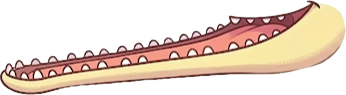
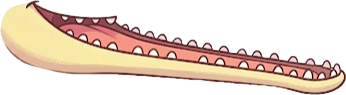
이미지 수정중

diff --git a/worklion/engine.js b/worklion/engine.js
@@ -749,55 +749,39 @@ class Lion {
     return { x: wx + dx * 0.5, y: wy + dy * 0.5 };
   }
 
-  /** 팔을 따라 악어 턱 이미지 그리기 */
-  _drawJaw(ctx, arm, isUpper, CW, CH) {
+  /** 어깨 중심에서 좌/우 방향으로 나오는 악어 턱 */
+  _drawJaw(ctx, isUpper, CW, CH) {
     const img = isUpper ? Assets.croc.upper : Assets.croc.lower;
     if (!img) return;
-
-    // 시작점: 상악은 반대쪽 어깨에서 시작 (입이 팔 끝에서 나오는 느낌)
     const p = this._getRenderPose();
-    let sx, sy;
-    if (isUpper) {
-      // 상악: 반대쪽 어깨에서 시작
-      const otherShoulder = (arm.shoulder === p.ls) ? p.rs : p.ls;
-      sx = this._px(otherShoulder, CW, CH);
-      sy = this._py(otherShoulder, CW, CH);
-    } else {
-      sx = this._px(arm.shoulder, CW, CH);
-      sy = this._py(arm.shoulder, CW, CH);
-    }
-    const end = this._getArmEnd(arm, CW, CH);
-    const wx = end.x, wy = end.y;
+    if (!p) return;
 
-    // 시작점→손가락끝 방향 각도
-    const angle = Math.atan2(wy - sy, wx - sx);
+    // 어깨 중심점
+    const cx = (this._px(p.ls, CW, CH) + this._px(p.rs, CW, CH)) / 2;
+    const cy = (this._py(p.ls, CW, CH) + this._py(p.rs, CW, CH)) / 2;
 
-    // 팔 골격 길이 (어깨→팔꿈치→손목→손끝) 기반으로 일정한 크기 유지
-    const shX = this._px(arm.shoulder, CW, CH), shY = this._py(arm.shoulder, CW, CH);
-    const elX = this._px(arm.elbow, CW, CH), elY = this._py(arm.elbow, CW, CH);
-    const wrX = this._px(arm.wrist, CW, CH), wrY = this._py(arm.wrist, CW, CH);
-    const boneLen = Math.sqrt((elX-shX)**2 + (elY-shY)**2)
-                  + Math.sqrt((wrX-elX)**2 + (wrY-elY)**2) * 1.5; // 손가락끝까지 포함
+    const facingRight = this._getFacingRight();
 
-    // 이미지 비율 유지하며 팔 골격 길이에 맞춤
+    // 어깨 너비 기반 크기
+    const shoulderW = Math.abs(this._px(p.ls, CW, CH) - this._px(p.rs, CW, CH));
+    const jawW = Math.max(100, shoulderW * 2.2);
     const aspect = img.naturalWidth / img.naturalHeight;
-    const jawW = boneLen * 1.05;
     const jawH = jawW / aspect;
 
+    // 입 열림 각도 (최대 26도): 상악은 위로, 하악은 아래로
+    const maxAngle = Math.PI / 7;
+    const openAngle = this.jawOpen * maxAngle;
+    const angle = isUpper ? -openAngle : openAngle;
+
+    // 닫혔을 때 상악 하단·하악 상단이 어깨 중심선에서 맞닿음
+    const offsetY = isUpper ? -jawH : 0;
+
     ctx.save();
-    ctx.translate(sx, sy);
+    ctx.translate(cx, cy);
+    if (facingRight) ctx.scale(-1, 1); // 손목이 왼쪽 → scale로 악어를 왼쪽으로 뻗음
     ctx.rotate(angle);
-
-    // 팔이 왼쪽을 향할 때(|angle| > 90°) 이미지가 뒤집혀 보이므로 세로 flip
-    const needsFlip = Math.abs(angle) > Math.PI / 2;
-    if (needsFlip) {
-      ctx.scale(1, -1);
-    }
-
-    // 이미지 좌우 반전: drawImage에 음수 width로 미러링 (눈→어깨쪽, 입끝→손가락쪽)
-    const offsetY = isUpper ? -jawH * 0.7 : -jawH * 0.3;
-    ctx.drawImage(img, jawW * 0.95, offsetY, -jawW, jawH);
-
+    // 얼굴(눈) = x=0 (어깨 중심), 입/주둥이 끝 = x=jawW (바깥 방향)
+    ctx.drawImage(img, 0, offsetY, jawW, jawH);
     ctx.restore();
   }
 
@@ -842,23 +826,15 @@ class Lion {
   }
 
   drawLowerJaw(ctx) {
-    const arms = this._getJawArms();
-    if (!arms) {
-      this._drawFallbackJaw(ctx, false);
-      return;
-    }
     const rp = this._getRenderPose();
-    this._drawJaw(ctx, arms.lower, false, rp.CW, rp.CH);
+    if (!rp) { this._drawFallbackJaw(ctx, false); return; }
+    this._drawJaw(ctx, false, rp.CW, rp.CH);
   }
 
   drawUpperJaw(ctx) {
-    const arms = this._getJawArms();
-    if (!arms) {
-      this._drawFallbackJaw(ctx, true);
-      return;
-    }
     const rp = this._getRenderPose();
-    this._drawJaw(ctx, arms.upper, true, rp.CW, rp.CH);
+    if (!rp) { this._drawFallbackJaw(ctx, true); return; }
+    this._drawJaw(ctx, true, rp.CW, rp.CH);
   }
 
   /** 몸통 (z-index 최상단 — 상악/하악 위에 그림) */
@@ -902,11 +878,10 @@ class Lion {
 
   draw(ctx) { this.drawLowerJaw(ctx); this.drawUpperJaw(ctx); }
 
-  /** 충돌 범위 = 상악 손목 ~ 하악 손목 사이 직사각형 */
+  /** 충돌 범위 = 어깨 중심 ~ 주둥이 끝 사이 영역 */
   getCollisionBounds() {
-    const arms = this._getJawArms();
-    if (!arms) {
-      // fallback
+    const p = this._getRenderPose();
+    if (!p) {
       const sc = this.baseScale;
       const jawDown = this.jawOpen * this.jawMaxOffset * sc;
       const w = 200 * sc;
@@ -917,24 +892,21 @@ class Lion {
         centerX: this.x, centerY: this.y + jawDown / 2,
       };
     }
-    const { CW, CH } = this.pose;
-    const u = arms.upper, l = arms.lower;
-    // 상악/하악: 어깨~손가락끝 사이 영역
-    const usx = this._px(u.shoulder, CW, CH), usy = this._py(u.shoulder, CW, CH);
-    const ue = this._getArmEnd(u, CW, CH);
-    const lsx = this._px(l.shoulder, CW, CH), lsy = this._py(l.shoulder, CW, CH);
-    const le = this._getArmEnd(l, CW, CH);
-
-    const allX = [usx, ue.x, lsx, le.x];
-    const allY = [usy, ue.y, lsy, le.y];
-    const left = Math.min(...allX);
-    const right = Math.max(...allX);
-    const top = Math.min(...allY);
-    const bottom = Math.max(...allY);
-    const width = right - left;
-    const height = bottom - top;
-    return { left, top, right, bottom, width, height,
-      centerX: (left + right) / 2, centerY: (top + bottom) / 2 };
+    const { CW, CH } = p;
+    const cx = (this._px(p.ls, CW, CH) + this._px(p.rs, CW, CH)) / 2;
+    const cy = (this._py(p.ls, CW, CH) + this._py(p.rs, CW, CH)) / 2;
+    const facingRight = this._getFacingRight();
+    const shoulderW = Math.abs(this._px(p.ls, CW, CH) - this._px(p.rs, CW, CH));
+    const jawW = Math.max(100, shoulderW * 2.2);
+    const maxAngle = Math.PI / 7;
+    const openAngle = this.jawOpen * maxAngle;
+    const spread = jawW * Math.sin(openAngle) + 20;
+    const reach = jawW * Math.cos(openAngle);
+    const left  = facingRight ? cx         : cx - reach;
+    const right = facingRight ? cx + reach : cx;
+    return { left, top: cy - spread, right, bottom: cy + spread,
+      width: reach, height: spread * 2,
+      centerX: (left + right) / 2, centerY: cy };
   }
 
   /** 물기 판정용 충돌 범위 (입이 벌어져 있을 때 스냅샷) */
@@ -942,14 +914,17 @@ class Lion {
     return this._peakBounds || this.getCollisionBounds();
   }
 
-  /** 입 끝 위치 (양 손가락끝 중간점) — 자석 끌어오기 타겟 */
+  /** 입 끝 위치 (주둥이 끝) — 자석 끌어오기 타겟 */
   getMouthTip() {
-    const arms = this._getJawArms();
-    if (!arms) return { x: this.x, y: this.y };
-    const { CW, CH } = this.pose;
-    const ue = this._getArmEnd(arms.upper, CW, CH);
-    const le = this._getArmEnd(arms.lower, CW, CH);
-    return { x: (ue.x + le.x) / 2, y: (ue.y + le.y) / 2 };
+    const p = this._getRenderPose();
+    if (!p) return { x: this.x, y: this.y };
+    const { CW, CH } = p;
+    const cx = (this._px(p.ls, CW, CH) + this._px(p.rs, CW, CH)) / 2;
+    const cy = (this._py(p.ls, CW, CH) + this._py(p.rs, CW, CH)) / 2;
+    const facingRight = this._getFacingRight();
+    const shoulderW = Math.abs(this._px(p.ls, CW, CH) - this._px(p.rs, CW, CH));
+    const jawW = Math.max(100, shoulderW * 2.2);
+    return { x: facingRight ? cx + jawW * 0.9 : cx - jawW * 0.9, y: cy };
   }
 
   drawCollisionDebug(ctx) {
